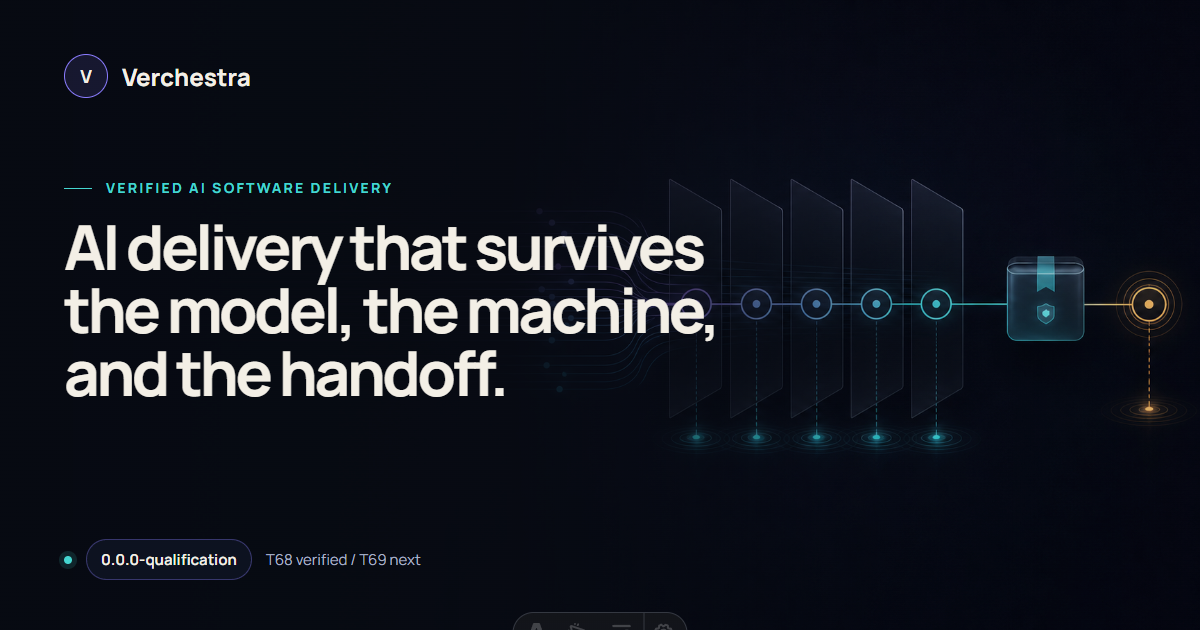
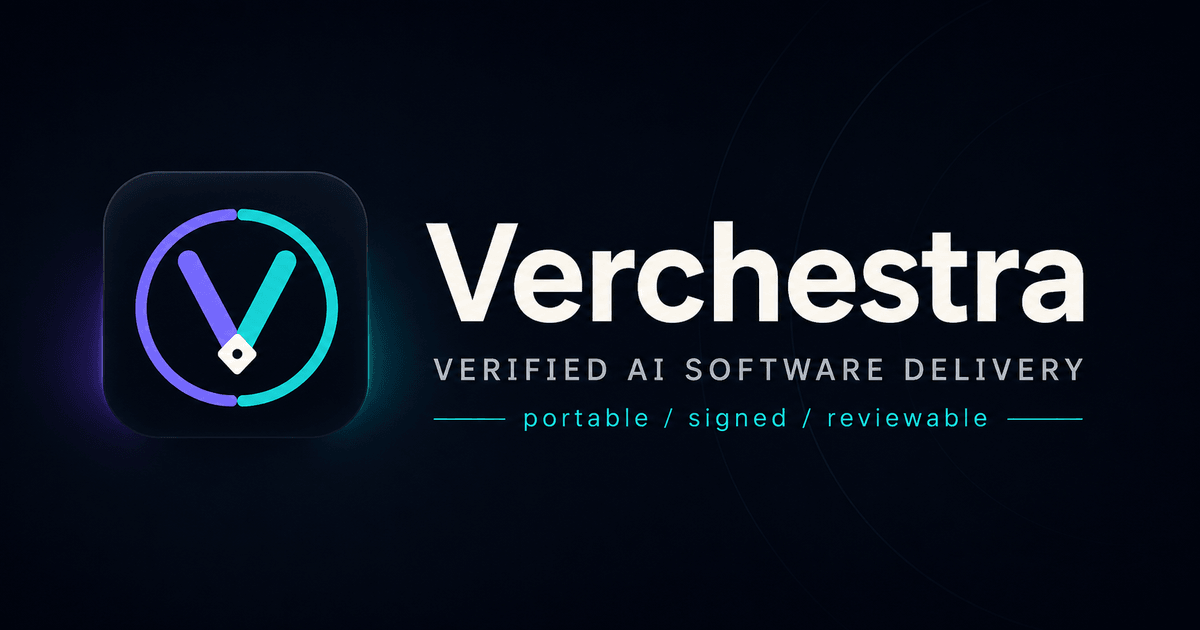
feat(site): adopt the real Verchestra brand mark across every identity surface
Replace the placeholder CSS "V" circle with the actual violet/teal split-ring
checkmark mark: product header and footer wordmarks, the Starlight docs
header logo, the favicon, a new apple-touch-icon, and a rebuilt 1200x630
social card from the brand lockup. The old social card carried a baked-in
"T68 verified / T69 next" status; the new card is status-evergreen. The
README opens with the hosted lockup banner.

All rasters are pre-optimized (every replaced binary is smaller), so the
Astro image service switches to the hermetic passthrough service instead of
adding sharp as a direct dependency.

Verified: site unit 50/50 (brand-size contracts), astro check clean, build
128 pages, check:built valid, Playwright e2e + Axe 51/51 across three
browsers, Lighthouse 3-run median assertions pass at the 0.95 budget.

diff --git a/apps/site/astro.config.ts b/apps/site/astro.config.ts
@@ -1,6 +1,6 @@
 import sitemap from "@astrojs/sitemap";
 import starlight from "@astrojs/starlight";
-import { defineConfig } from "astro/config";
+import { defineConfig, passthroughImageService } from "astro/config";
 import { llmArtifactsIntegration } from "./src/lib/llm-content.ts";
 import { qualificationSidebarItems } from "./src/lib/repository-content.ts";
 
@@ -19,6 +19,12 @@ export default defineConfig({
   build: {
     inlineStylesheets: "always"
   },
+  image: {
+    // Brand rasters are pre-optimized at their served sizes (see public/ and
+    // src/assets/brand/), so the no-op service keeps the build hermetic instead
+    // of adding sharp as a direct dependency.
+    service: passthroughImageService()
+  },
   trailingSlash: "always",
   vite: {
     build: {
@@ -32,12 +38,23 @@ export default defineConfig({
       title: "Verchestra",
       description: "Verified AI software delivery that survives the model, the machine, and the handoff.",
       favicon: "/favicon.png",
+      logo: {
+        src: "./src/assets/brand/verchestra-mark.png",
+        alt: ""
+      },
       disable404Route: true,
       customCss: ["./src/styles/global.css"],
       components: {
         Head: "./src/components/StarlightHead.astro"
       },
       head: [
+        {
+          tag: "link",
+          attrs: {
+            rel: "apple-touch-icon",
+            href: "/verchestra/apple-touch-icon.png"
+          }
+        },
         {
           tag: "meta",
           attrs: {
@@ -63,7 +80,7 @@ export default defineConfig({
           tag: "meta",
           attrs: {
             property: "og:image:alt",
-            content: "Verchestra verified AI software delivery workflow"
+            content: "Verchestra — verified AI software delivery: portable, signed, reviewable"
           }
         },
         {

diff --git a/apps/site/src/styles/global.css b/apps/site/src/styles/global.css
@@ -162,17 +162,10 @@ body.product-shell {
   text-decoration: none;
 }
 
-.wordmark__mark {
-  display: grid;
-  width: 2rem;
-  height: 2rem;
-  place-items: center;
-  border: 1px solid color-mix(in srgb, var(--violet) 75%, white);
-  border-radius: 50%;
-  background: color-mix(in srgb, var(--violet) 16%, transparent);
-  color: var(--text);
-  font-family: var(--font-mono);
-  font-size: 0.85rem;
+.wordmark__logo {
+  width: 2.125rem;
+  height: 2.125rem;
+  flex: none;
 }
 
 .site-nav {

diff --git a/README.md b/README.md
@@ -1,5 +1,11 @@
 # Verchestra
 
+<p align="center">
+  <a href="https://accd.github.io/verchestra/">
+    <img src="https://accd.github.io/verchestra/social-card.png" alt="Verchestra — verified AI software delivery: portable, signed, reviewable" width="720" />
+  </a>
+</p>
+
 [![CI](https://github.com/accd/verchestra/actions/workflows/ci.yml/badge.svg)](https://github.com/accd/verchestra/actions/workflows/ci.yml)
 [![Website](https://img.shields.io/badge/website-product%20%2B%20docs-45D6D0)](https://accd.github.io/verchestra/)
 [![License: Apache-2.0](https://img.shields.io/badge/License-Apache--2.0-blue.svg)](LICENSE)
